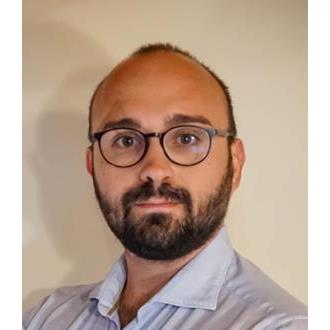
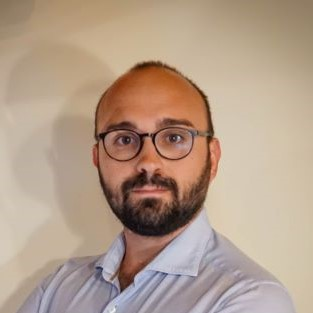
chore: faculty advisors imgs

diff --git a/src/routes/about/current-team/+page.svelte b/src/routes/about/current-team/+page.svelte
@@ -53,15 +53,17 @@
         <h2 class="section-title center" id="faculty-advisors">Faculty Advisors</h2>
         <ul class="lead-list">
             <Lead 
-            name="Alfonso Pagani" 
+            name="Prof. Alfonso Pagani" 
             role="Primary Faculty Advisor" 
             mail="alfonso.pagani@polito.it"
-            linkedin="alfonsopagani" />
+            linkedin="alfonsopagani"
+            img="advisors/Pagani.jpg" />
         <Lead 
-            name="Enrico Zappino" 
-            role="Laboratory Advisor" 
+            name="Prof. Enrico Zappino" 
+            role="Faculty Advisor" 
             mail="enrico.zappino@polito.it"
-            linkedin="enrico-zappino-4a762326" />
+            linkedin="enrico-zappino-4a762326"
+            img="advisors/Zappino.jpg" />
         </ul>
     </section>
     <section>
